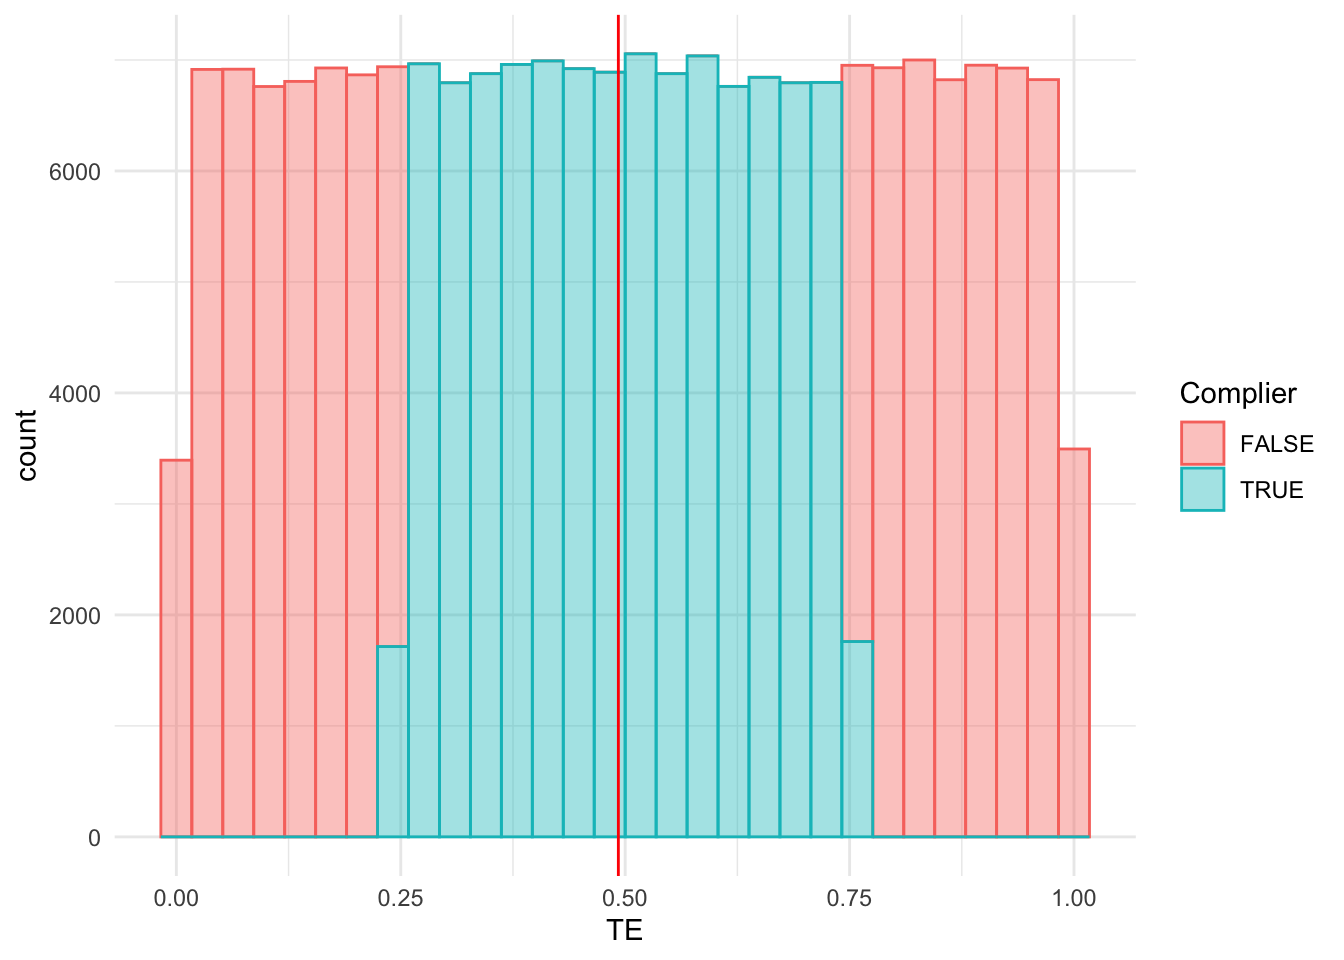
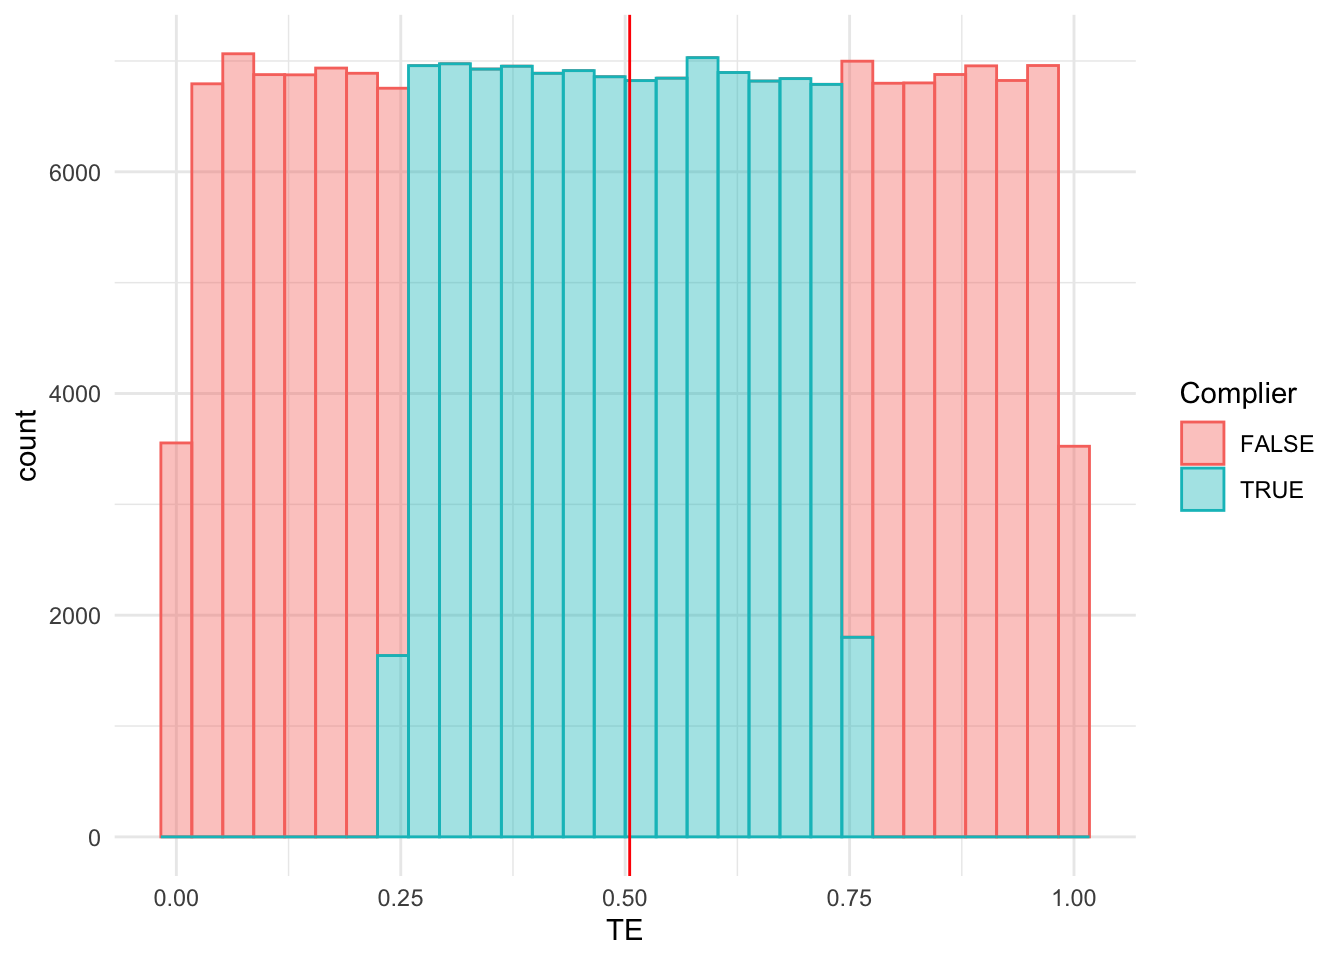
Updates to recitation 10

diff --git a/docs/recitations/Week-10.html b/docs/recitations/Week-10.html
@@ -200,7 +200,7 @@ window.Quarto = {
   </li>
   <li class="nav-item">
     <a class="nav-link" href="../Exercises.html"> 
-<span class="menu-text">Practice Exercises</span></a>
+<span class="menu-text">Additional Material</span></a>
   </li>  
 </ul>
           </div> <!-- /navcollapse -->
@@ -264,7 +264,7 @@ window.Quarto = {
 <li>There is an instrument <span class="math inline">\(Z\)</span> that is randomly assigned and therefore independent of potential outcomes.</li>
 <li>Potential outcomes and treatment are determined by some unobserved type, <span class="math inline">\(\omega\in\Omega\)</span>. This is not restrictive because <span class="math inline">\(\Omega\)</span> can be arbitrarily large (e.g.&nbsp;the position and rotational speed of every single atom and electron in your body).</li>
 <li>Let <span class="math inline">\(D_{Z}(\omega)\in\{0,1\}\)</span> be the function that determines <em>treatment assignment</em> given the realization of the instrument <span class="math inline">\(Z\)</span>. For example, if <span class="math inline">\(Z\)</span> is a randomly offered college subsidy, <span class="math inline">\(D_{Z}(\omega)\)</span> determines whether someone of type <span class="math inline">\(\omega\)</span> goes to college for each value of <span class="math inline">\(Z\)</span>.</li>
-<li>The model is given by: [ Y_{1}(), Y_{0}(), D_{Z}().$$</li>
+<li>The model is given by: <span class="math inline">\((Y_{1}(\omega), Y_{0}(\omega), D_{Z}(\omega))\)</span></li>
 </ul>
 <p>We say that <span class="math inline">\(Z\)</span> is monotonic if for two potential values of <span class="math inline">\(z\neq z'\)</span>, either:</p>
 <p><span class="math display">\[ D_{z}(\omega) \geq D_{z'}(\omega)\ \forall\omega\in\Omega \]</span></p>
@@ -284,7 +284,7 @@ window.Quarto = {
 <h3 class="anchored" data-anchor-id="example-2-when-z-is-continuous">Example 2: When <span class="math inline">\(Z\)</span> is continuous</h3>
 <p>Going back to our applications in class with Judge stringency, let <span class="math inline">\(Z_{j}\in(0,1)\)</span> be the stringency of judge <span class="math inline">\(j\)</span>, defined as the average probability of an imprisonment sentencing. Let <span class="math inline">\(I_{n}\in\{0,1\}\)</span> indicate a prison sentence. Suppose that the first stage takes the form:</p>
 <p><span class="math display">\[ \mathbb{E}[I_{n}|Z_{j(n)}] = \gamma Z_{j(n)} \]</span></p>
-<p>with $&gt; 0 $.</p>
+<p>with <span class="math inline">\(\gamma&gt;0\)</span>.</p>
 <p>Next, prove with your TA that monotonicity implies that if a defendant is sentenced to prison by a judge with leniency <span class="math inline">\(z\)</span>, that they would also be sentenced to prison had they been assigned to a judge with leniency <span class="math inline">\(z'&lt;z\)</span>.</p>
 </section>
 <section id="estimation" class="level2">
@@ -299,7 +299,8 @@ window.Quarto = {
 <h3 class="anchored" data-anchor-id="example-2">Example 2</h3>
 <p>We’ll use a simulation to explore what happens when <span class="math inline">\(Z\)</span> is continuous, as in the judge IV setting.</p>
 <p>First, let’s assume <span class="math inline">\(Z_{j}\)</span> is distributed uniformly on the interval between 0.25 and 0.75.</p>
-<p>Second, let’s assume that defendants can be characterized by some <span class="math inline">\(V\)</span> such that: <span class="math display">\[ I_{n} = \mathbf{1}\{Z_{j(n)} - V_{n}\geq 0\}\]</span> Higher levels of <span class="math inline">\(V_{n}\)</span> represent higher levels of “innonence” in that these individuals are less likely to go to prison when assigned randomly to any one of the judges.</p>
+<p>Second, let’s assume that defendants can be characterized by some <span class="math inline">\(V\)</span> such that: <span class="math display">\[ I_{n} = \mathbf{1}\{Z_{j(n)} - V_{n}\geq 0\}\]</span></p>
+<p>Higher levels of <span class="math inline">\(V_{n}\)</span> represent higher levels of “innocence” in that these individuals are less likely to go to prison when assigned randomly to any one of the judges.</p>
 <p>Third, let’s assume that the effect of prison on outcome <span class="math inline">\(Y\)</span> is heterogeneous and depends on <span class="math inline">\(V\)</span>:</p>
 <p><span class="math display">\[ Y = \mu + \alpha I_{n} + \beta I_{n}\times V + \eta,\ \eta \sim\mathcal{N}(0,\sigma^2_{\eta}) \]</span></p>
 <p>Let’s write a simulation to see what TSLS converges to in a large sample.</p>
@@ -309,7 +310,7 @@ window.Quarto = {
 <pre><code>── Attaching core tidyverse packages ──────────────────────── tidyverse 2.0.0 ──
 ✔ dplyr     1.1.4     ✔ readr     2.1.5
 ✔ forcats   1.0.0     ✔ stringr   1.5.1
-✔ ggplot2   3.4.4     ✔ tibble    3.2.1
+✔ ggplot2   3.5.0     ✔ tibble    3.2.1
 ✔ lubridate 1.9.3     ✔ tidyr     1.3.1
 ✔ purrr     1.0.2     
 ── Conflicts ────────────────────────────────────────── tidyverse_conflicts() ──
@@ -344,10 +345,10 @@ window.Quarto = {
 <div class="cell">
 <div class="sourceCode cell-code" id="cb4"><pre class="sourceCode r code-with-copy"><code class="sourceCode r"><span id="cb4-1"><a href="#cb4-1" aria-hidden="true" tabindex="-1"></a><span class="fu">monte_carlo_judgeIV</span>(<span class="dv">50</span>,<span class="dv">10000</span>,<span class="dv">1</span>,<span class="dv">0</span>,<span class="fl">0.4</span>)</span></code><button title="Copy to Clipboard" class="code-copy-button"><i class="bi"></i></button></pre></div>
 <div class="cell-output cell-output-stdout">
-<pre><code>[1] 0.5063923</code></pre>
+<pre><code>[1] 0.5072938</code></pre>
 </div>
 </div>
-<p>We get, once again, that tsls converges to the average treatment effect among ``compliers’’ which are individiuals with <span class="math inline">\(V\)</span> between 0.25 and 0.75. A picture to visualize:</p>
+<p>We get, once again, that TSLS converges to the average treatment effect among “compliers” which are individiuals with <span class="math inline">\(V\)</span> between 0.25 and 0.75. A picture to visualize:</p>
 <div class="cell">
 <div class="sourceCode cell-code" id="cb6"><pre class="sourceCode r code-with-copy"><code class="sourceCode r"><span id="cb6-1"><a href="#cb6-1" aria-hidden="true" tabindex="-1"></a>data <span class="ot">&lt;-</span> <span class="fu">sim_judgeIV</span>(<span class="dv">200000</span>,<span class="dv">1</span>,<span class="dv">0</span>,<span class="fl">0.4</span>)</span>
 <span id="cb6-2"><a href="#cb6-2" aria-hidden="true" tabindex="-1"></a>data<span class="sc">$</span>Complier <span class="ot">&lt;-</span> data<span class="sc">$</span>V<span class="sc">&lt;</span><span class="fl">0.75</span> <span class="sc">&amp;</span> data<span class="sc">$</span>V<span class="sc">&gt;</span><span class="fl">0.25</span></span>
